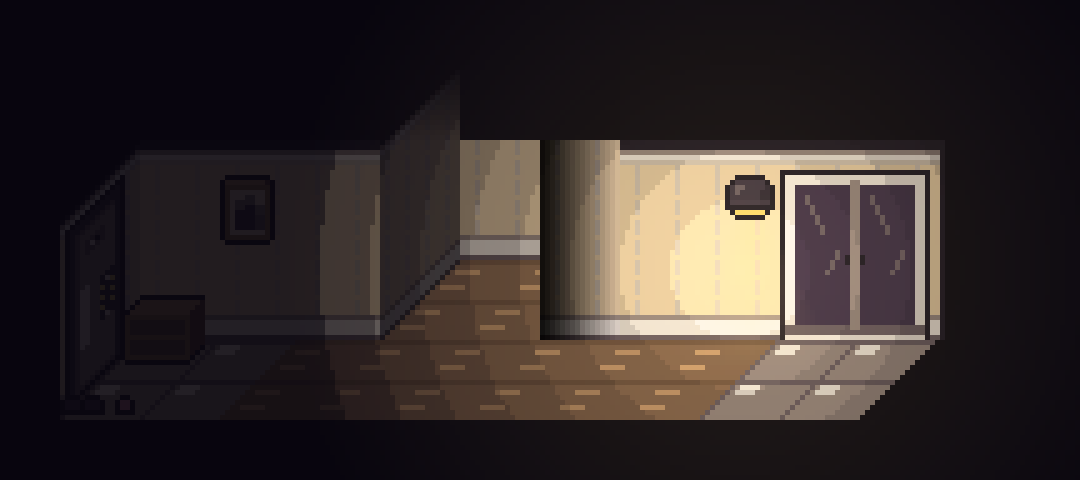
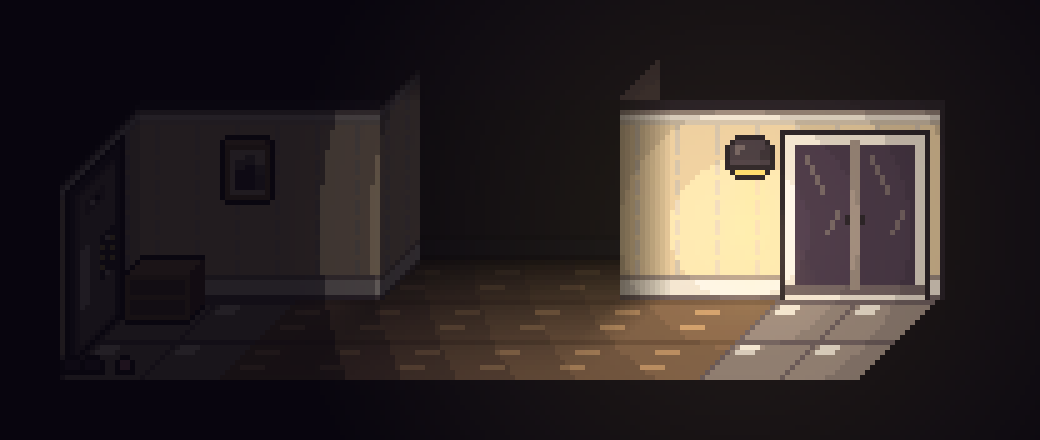
Corridor: revert to black-recess state, add dark triangle wall above lit wall's left end
Claude-Session: https://claude.ai/code/session_01FPZSaKiVNU2zED737yZX4w

diff --git a/tools/render_maps.py b/tools/render_maps.py
@@ -43,7 +43,7 @@ def load_map(path):
             m['tone'] = tuple(int(v) for v in line[5:].split())
         elif line.startswith('ambient:'):
             m['ambient'] = float(line[8:])
-        elif line.startswith(('view:', 'left_wall:', 'left_add:', 'sky_rows:', 'front_wall:', 'front_door:', 'front_glow:', 'recess:', 'recess_dark:', 'recess_depth:', 'recess_side:', 'recess_panel:', 'recess_endface:', 'recess_feather:')) and section is None:
+        elif line.startswith(('view:', 'left_wall:', 'left_add:', 'sky_rows:', 'front_wall:', 'front_door:', 'front_glow:', 'recess:', 'recess_dark:', 'recess_depth:', 'recess_side:', 'recess_panel:', 'recess_endface:', 'recess_feather:', 'recess_triangle:')) and section is None:
             m.setdefault('extra', {})[line.split(':')[0]] = line.split(':', 1)[1].strip()      # 사선 시점 방(render_room.py)용 추가 줄
         elif line.startswith('dream:'):
             m['dream'] = dict(p.split('=') for p in line[6:].split())

diff --git a/tools/render_room.py b/tools/render_room.py
@@ -119,6 +119,11 @@ def render_room(path, scale=1):
                 if 0 <= X < CW:
                     r_, g_, b_, a_ = px[X, Y]
                     if a_: px[X, Y] = (int(r_ * kk), int(g_ * kk), int(b_ * kk), a_)
+    if rc and extra.get('recess_triangle') == 'on':                    # 바깥 벽 왼쪽 끝 위의 어두운 삼각형 벽(왼쪽 옆면의 윗변과 평행한 사선)
+        xm_ = int(X0 + SK * D + (rb + 1) * T); top_ = int(by - wallh)
+        for off in range(int(SK * RD)):
+            for Y in range(top_ - (off + 1), top_):
+                px[xm_ + off, Y] = (46, 38, 40, 255)
     strip_px = []
     if rc and extra.get('recess_endface', 'on') != 'off':               # ㄴ 자 벽: 바깥 벽의 왼쪽 끝면(두께)을 안쪽 검은 면 오른쪽에 보이게 한다
             xm = int(X0 + SK * D + (rb + 1) * T); base_y = int(Y0 - SS * D); top_y = int(by - wallh)
